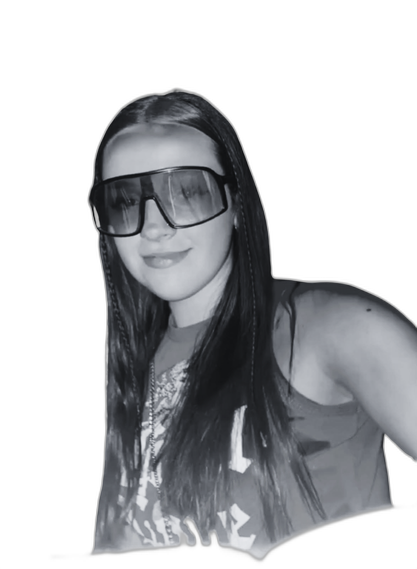
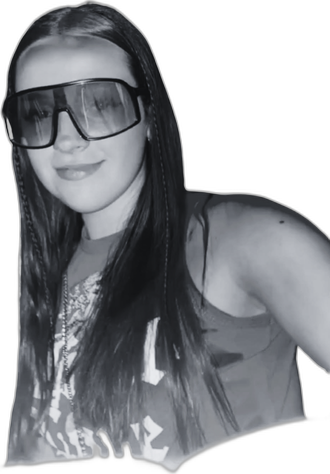
Nuevo diseño de la invitación

diff --git a/src/styles.css b/src/styles.css
@@ -227,10 +227,10 @@
 
 /* los tres, recortados, en blanco y negro con trama de puntos */
 .night-cast { position: relative; z-index: 1; height: clamp(300px, 72vw, 520px); margin-top: clamp(8px, 2vw, 24px); overflow: hidden; pointer-events: none; animation: night-in 1.1s .5s ease-out both; }
-.night-cut { position: absolute; bottom: -2%; height: 92%; width: auto; filter: grayscale(1) contrast(1.35) brightness(1.05); }
-.night-cut-a { left: -2%; height: 72%; z-index: 3; }
-.night-cut-c { right: -2%; height: 74%; z-index: 3; }
-.night-cut-b { left: 50%; bottom: 10%; transform: translateX(-50%); height: 96%; z-index: 1; -webkit-mask-image: linear-gradient(to bottom, #000 72%, transparent 100%); mask-image: linear-gradient(to bottom, #000 72%, transparent 100%); }
+.night-cut { position: absolute; bottom: 0; height: 92%; width: auto; filter: grayscale(1) contrast(1.35) brightness(1.05); }
+.night-cut-a { left: 0; height: 80%; z-index: 3; }
+.night-cut-c { right: 0; height: 80%; z-index: 3; }
+.night-cut-b { left: 50%; bottom: 0; transform: translateX(-50%); height: 96%; z-index: 1; -webkit-mask-image: linear-gradient(to bottom, #000 72%, transparent 100%); mask-image: linear-gradient(to bottom, #000 72%, transparent 100%); }
 .night-halftone {
   position: absolute; inset: 0; z-index: 4;
   background-image: radial-gradient(circle, var(--night-black) 0.85px, transparent 1.25px);
